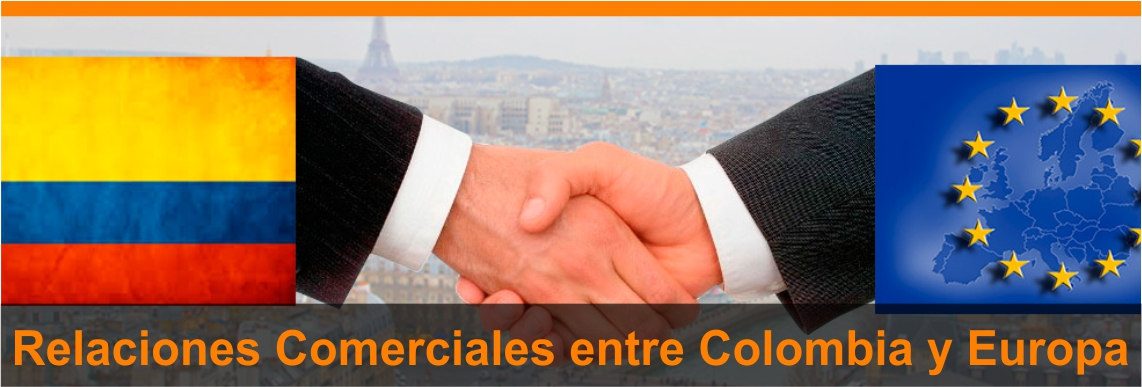
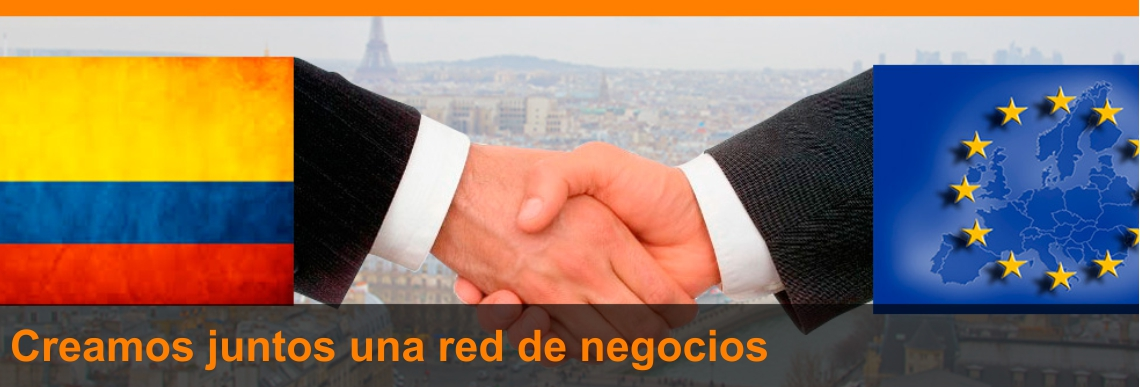
actualización 20

diff --git a/contactos.html b/contactos.html
@@ -135,17 +135,19 @@
             <div class="col-lg-4">
               <h3>Contactos</h3>
               <p>
-                Telefono: <br>
-                317 2000 <br><br> 
-                Celular: <br> 
-                316 7734 0303 <br> 
-                316 420 3687 <br><br>
-                Dirección: <br>
-                Torres del Sol Dosquebradas Calle 17 Casa 11 <br><br> 
-                Email: <br>
+                <strong>Telefono:</strong> <br> <span style="color: #ff7f00" >Inversion-10:</span> <br>(00-57-6) 3172000 Pereira, Risaralda, Colombia.<br>
+                          <span style="color: #ff7f00" >Ingenieria+Arquitectura:</span> <br>(00-34-928 o 828) 334271 Las Palmas de Gran Canaria, Isla de Gran Canaria, España.<br> 
+                          <span style="color: #ff7f00" >Repuestos Italia:</span><br>(00-34-928 o 828) 362581 Las Palmas de Gran Canaria, Isla de Gran Canaria, España. <br>
+                <strong>Celular:</strong> <br> 
+                (00-57) 316 7734 0303 <br> 
+                (00-57) 316 420 3687 <br><br>
+                <strong>Dirección:</strong> <br>
+                    <span style="color: #ff7f00" >Inversion-10:</span> <br>Torres del Sol Dosquebradas Calle 17 Casa 11<br>
+                    <span style="color: #ff7f00" >Ingenieria+Arquitectura:</span> <br> Las Palmas de Gran Canaria calle Yucatán N° 14, Isla de Gran Canaria, España.<br> 
+                    <span style="color: #ff7f00" >Repuestos Italia:</span><br>Las Palmas de Gran Canaria calle Atalaya N° 9, Isla de Gran Canaria, España. <br>
+
+                <strong>Email:</strong> <br>
                 tecnico@inversion-10.com <br> 
-                gerente@inversion-10.com <br> <br>
-                <img class="img-responsive" src="img/inversion2.jpg" alt="logo">
               </p>  
             </div>
           </div>
@@ -159,15 +161,14 @@
             <div class="row">  
               <div class="col-xs-12 col-sm-6 col-md-6 col-lg-6">
                 <p class="pfooter text-center">
-                  <span>Dirección:</span>Torres del Sol Dosquebradas Calle 17 Casa 11 <br> 
-                  <span>Email:</span> tecnico@inversion-10.com - gerente@inversion-10.com
-                </p>
+                  <span>Dirección:</span>Torres del Sol Dosquebradas Calle 17 Casa 11 <br>
+
+                  <span>Email:</span> tecnico@inversion-10.com
               </div>
               <div class="col-xs-12 col-sm-3 col-md-3 col-lg-3">
                 <p class="pfooter text-center">
-                  <span>Telefono:</span> 317 2000 <br> 
-                  <span>Celular:</span> 316 7734 0303 - 316 420 3687
-                </p>
+                  <span>Telefono:</span> (00-57-6)317 2000 <br> 
+                  <span>Celular:</span> (00-57)316 7734 0303 <br> (00-57)316 420 3687
               </div>
               <div class="col-xs-12 col-sm-3 col-md-3 col-lg-3">
                 <a href="#"><img class="pfooter center-block" src="img/logofitts.png" alt=""></a>

diff --git a/index.html b/index.html
@@ -94,13 +94,13 @@
                 <!-- Wrapper for slides -->
                 <div class="carousel-inner">
                   <div class="item active">
-                    <img src="img/slide1.jpg" alt="slide1">
+                    <img src="img/slide3.jpg" alt="slide1">
+                  </div>
+                  <div class="item">
+                    <img src="img/slide1.jpg" alt="slide1">  
                   </div>
                   <div class="item">
                     <img src="img/slide2.jpg" alt="slide1">  
-                  </div>
-                  <div class="item">
-                    <img src="img/slide3.jpg" alt="slide1">  
                   </div>
                 </div>
                 <!-- Controls -->
@@ -153,13 +153,13 @@ Siendo hoy día una empresa consolidada y de confianza. Con la tecnología, maqu
               <div class="col-xs-12 col-sm-6 col-md-6 col-lg-6">
                 <p class="pfooter text-center">
                   <span>Dirección:</span>Torres del Sol Dosquebradas Calle 17 Casa 11 <br> 
-                  <span>Email:</span> tecnico@inversion-10.com - gerente@inversion-10.com
+                  <span>Email:</span> tecnico@inversion-10.com
                 </p>
               </div>
               <div class="col-xs-12 col-sm-3 col-md-3 col-lg-3">
                 <p class="pfooter text-center">
-                  <span>Telefono:</span> 317 2000 <br> 
-                  <span>Celular:</span> 316 7734 0303 - 316 420 3687
+                  <span>Telefono:</span> (00-57-6)317 2000 <br> 
+                  <span>Celular:</span> (00-57)316 7734 0303 <br> (00-57)316 420 3687
                 </p>
               </div>
               <div class="col-xs-12 col-sm-3 col-md-3 col-lg-3">

diff --git a/nosotros.html b/nosotros.html
@@ -90,7 +90,7 @@
             </div> 
           </div>
         </section>
-      spacio</header> 
+      </header> 
                   <!-- CONTENT
         ================================================== -->
                 <div class="container">
@@ -131,13 +131,13 @@ Gracias a la confianza de nuestros clientes, proveedores y a nuestro personal, q
               <div class="col-xs-12 col-sm-6 col-md-6 col-lg-6">
                 <p class="pfooter text-center">
                   <span>Dirección:</span>Torres del Sol Dosquebradas Calle 17 Casa 11 <br> 
-                  <span>Email:</span> tecnico@inversion-10.com - gerente@inversion-10.com
+                  <span>Email:</span> tecnico@inversion-10.com
                 </p>
               </div>
               <div class="col-xs-12 col-sm-3 col-md-3 col-lg-3">
                 <p class="pfooter text-center">
-                  <span>Telefono:</span> 317 2000 <br> 
-                  <span>Celular:</span> 316 7734 0303 - 316 420 3687
+                 <span>Telefono:</span> (00-57-6)317 2000 <br> 
+                  <span>Celular:</span> (00-57)316 7734 0303 <br> (00-57)316 420 3687
                 </p>
               </div>
               <div class="col-xs-12 col-sm-3 col-md-3 col-lg-3">
@@ -145,7 +145,7 @@ Gracias a la confianza de nuestros clientes, proveedores y a nuestro personal, q
               </div>
             </div>
           </footer>
-          </div> 
+          </div>  
         <br>
 
          <script src="https://ajax.googleapis.com/ajax/libs/jquery/2.0.3/jquery.min.js"></script>

diff --git a/mortero.html b/mortero.html
@@ -209,13 +209,13 @@
               <div class="col-xs-12 col-sm-6 col-md-6 col-lg-6">
                 <p class="pfooter text-center">
                   <span>Dirección:</span>Torres del Sol Dosquebradas Calle 17 Casa 11 <br> 
-                  <span>Email:</span> tecnico@inversion-10.com - gerente@inversion-10.com
+                  <span>Email:</span> tecnico@inversion-10.com
                 </p>
               </div>
               <div class="col-xs-12 col-sm-3 col-md-3 col-lg-3">
                 <p class="pfooter text-center">
-                  <span>Telefono:</span> 317 2000 <br> 
-                  <span>Celular:</span> 316 7734 0303 - 316 420 3687
+                <span>Telefono:</span> (00-57-6)317 2000 <br> 
+                  <span>Celular:</span> (00-57)316 7734 0303 <br>(00-57)316 420 3687
                 </p>
               </div>
               <div class="col-xs-12 col-sm-3 col-md-3 col-lg-3">
@@ -223,7 +223,7 @@
               </div>
             </div>
           </footer>
-          </div> 
+          </div>  
         <br>
 
          <script src="https://ajax.googleapis.com/ajax/libs/jquery/2.0.3/jquery.min.js"></script>

diff --git a/capacitaciones.html b/capacitaciones.html
@@ -153,13 +153,13 @@
               <div class="col-xs-12 col-sm-6 col-md-6 col-lg-6">
                 <p class="pfooter text-center">
                   <span>Dirección:</span>Torres del Sol Dosquebradas Calle 17 Casa 11 <br> 
-                  <span>Email:</span> tecnico@inversion-10.com - gerente@inversion-10.com
+                  <span>Email:</span> tecnico@inversion-10.com 
                 </p>
               </div>
               <div class="col-xs-12 col-sm-3 col-md-3 col-lg-3">
                 <p class="pfooter text-center">
-                  <span>Telefono:</span> 317 2000 <br> 
-                  <span>Celular:</span> 316 7734 0303 - 316 420 3687
+                  <span>Telefono:</span> (00-57-6)317 2000 <br> 
+                  <span>Celular:</span> (00-57)316 7734 0303 <br>(00-57)316 420 3687
                 </p>
               </div>
               <div class="col-xs-12 col-sm-3 col-md-3 col-lg-3">

diff --git a/constructora.html b/constructora.html
@@ -432,13 +432,13 @@
               <div class="col-xs-12 col-sm-6 col-md-6 col-lg-6">
                 <p class="pfooter text-center">
                   <span>Dirección:</span>Torres del Sol Dosquebradas Calle 17 Casa 11 <br> 
-                  <span>Email:</span> tecnico@inversion-10.com - gerente@inversion-10.com
+                  <span>Email:</span> tecnico@inversion-10.com 
                 </p>
               </div>
               <div class="col-xs-12 col-sm-3 col-md-3 col-lg-3">
                 <p class="pfooter text-center">
-                  <span>Telefono:</span> 317 2000 <br> 
-                  <span>Celular:</span> 316 7734 0303 - 316 420 3687
+                  <span>Telefono:</span> (00-57-6)317 2000 <br> 
+                  <span>Celular:</span> (00-57)316 7734 0303 <br>(00-57)316 420 3687
                 </p>
               </div>
               <div class="col-xs-12 col-sm-3 col-md-3 col-lg-3">

diff --git a/relaciones.html b/relaciones.html
@@ -133,13 +133,12 @@
               <div class="col-xs-12 col-sm-6 col-md-6 col-lg-6">
                 <p class="pfooter text-center">
                   <span>Dirección:</span>Torres del Sol Dosquebradas Calle 17 Casa 11 <br> 
-                  <span>Email:</span> tecnico@inversion-10.com - gerente@inversion-10.com
-                </p>
+                  <span>Email:</span> tecnico@inversion-10.com 
               </div>
               <div class="col-xs-12 col-sm-3 col-md-3 col-lg-3">
                 <p class="pfooter text-center">
-                  <span>Telefono:</span> 317 2000 <br> 
-                  <span>Celular:</span> 316 7734 0303 - 316 420 3687
+                 <span>Telefono:</span> (00-57-6)317 2000 <br> 
+                  <span>Celular:</span> (00-57)316 7734 0303 <br> (00-57)316 420 3687
                 </p>
               </div>
               <div class="col-xs-12 col-sm-3 col-md-3 col-lg-3">

diff --git a/herramientas.html b/herramientas.html
@@ -146,8 +146,8 @@
               </div>
               <div class="col-xs-12 col-sm-3 col-md-3 col-lg-3">
                 <p class="pfooter text-center">
-                  <span>Telefono:</span> 317 2000 <br> 
-                  <span>Celular:</span> 316 7734 0303 - 316 420 3687
+                  <span>Telefono:</span> (00-57-6)317 2000 <br> 
+                  <span>Celular:</span> (00-57)316 7734 0303 <br> (00-57)316 420 3687
                 </p>
               </div>
               <div class="col-xs-12 col-sm-3 col-md-3 col-lg-3">

diff --git a/energias.html b/energias.html
@@ -142,8 +142,8 @@
               </div>
               <div class="col-xs-12 col-sm-3 col-md-3 col-lg-3">
                 <p class="pfooter text-center">
-                  <span>Telefono:</span> 317 2000 <br> 
-                  <span>Celular:</span> 316 7734 0303 - 316 420 3687
+                  <span>Telefono:</span> (00-57-6)317 2000 <br> 
+                  <span>Celular:</span> (00-57)316 7734 0303 <br>(00-57)316 420 3687
                 </p>
               </div>
               <div class="col-xs-12 col-sm-3 col-md-3 col-lg-3">

diff --git a/web/nosotros.html b/web/nosotros.html
@@ -90,7 +90,7 @@
             </div> 
           </div>
         </section>
-      spacio</header> 
+      </header> 
                   <!-- CONTENT
         ================================================== -->
                 <div class="container">
